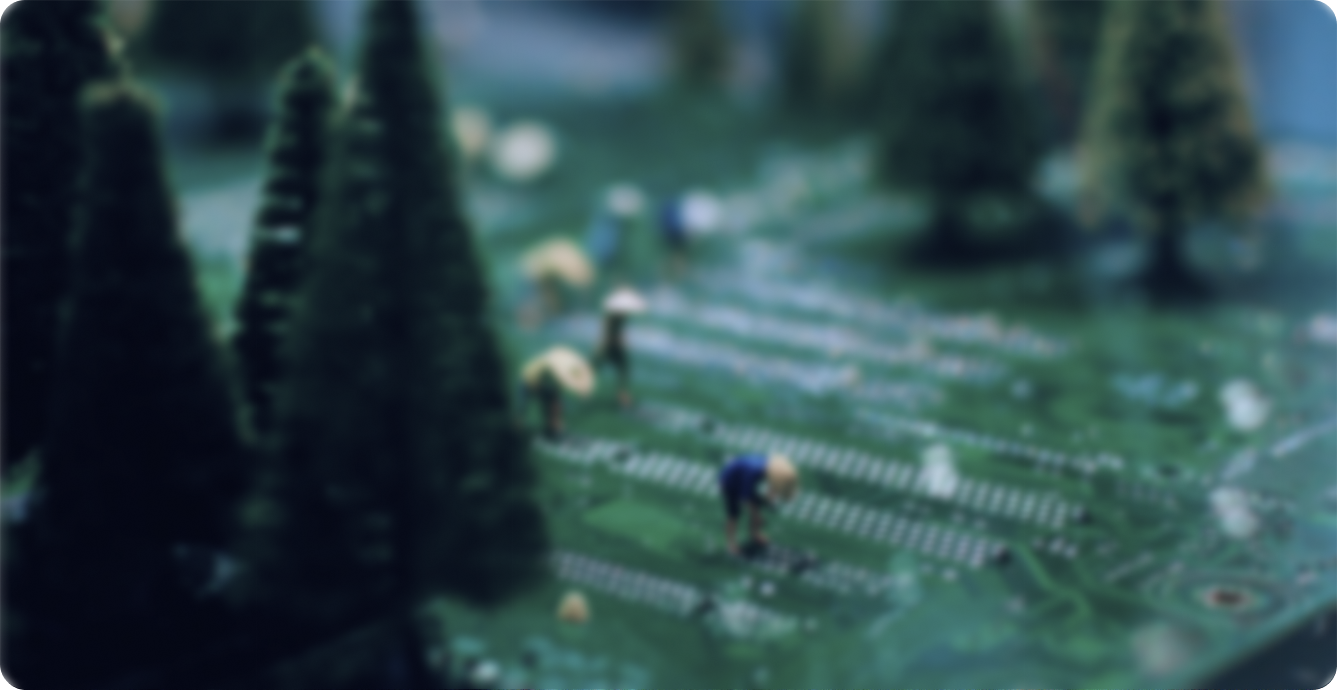
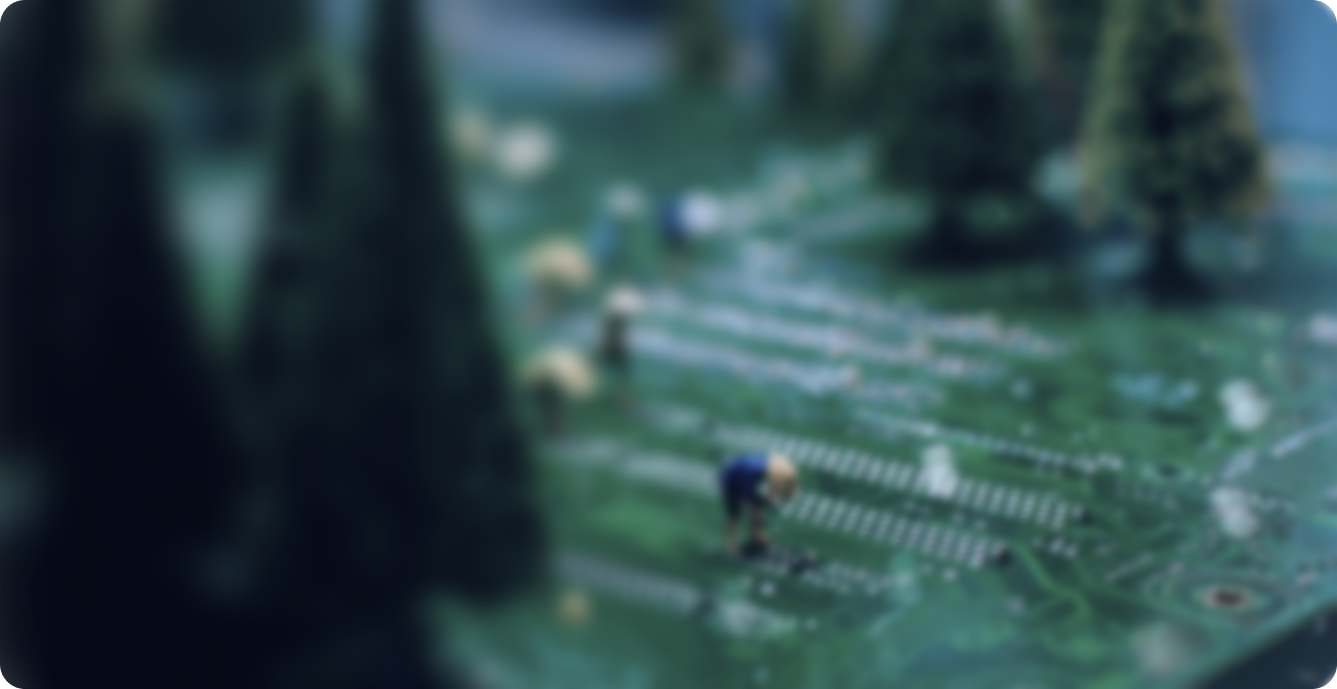
refactor(landing): faz alterações
Fiz algumas alterações para melhorar a landingpage depois da conversas com outros membros da equipe.

diff --git a/frontend/src/App.css b/frontend/src/App.css
@@ -1124,8 +1124,8 @@
 .contact-icons a {
     display: grid;
     place-items: center;
-    width: 3.5rem;
-    height: 3.5rem;
+    width: 2.75rem;
+    height: 2.75rem;
     border-radius: 50%;
     background: var(--text);
     color: var(--background);
@@ -1133,8 +1133,8 @@
 }
 
 .contact-icons a svg {
-    width: 1.5rem;
-    height: 1.5rem;
+    width: 1.25rem;
+    height: 1.25rem;
 }
 
 .contact-icons a:hover {
@@ -1293,8 +1293,21 @@
     padding: clamp(2rem, 4vw, 3rem);
     overflow: hidden;
     border-radius: 1.875rem;
-    background: var(--text);
-    color: var(--background);
+}
+
+[data-theme="light"] .overview-strip {
+    background: var(--background);
+    color: var(--text);
+}
+
+[data-theme="dark"] .overview-strip {
+    background: var(--shadow);
+    color: var(--text);
+}
+
+[data-theme="dark"][data-palette="blue"]  .overview-strip {
+    background: var(--background);
+    color: var(--text);
 }
 
 .strip-water {
@@ -1303,7 +1316,7 @@
     bottom: 0;
     left: 0;
     height: 70%;
-    background: color-mix(in srgb, var(--theme-secondary) 35%, transparent);
+    background: color-mix(in srgb, var(--theme-secondary) 75%, transparent);
 }
 
 .strip-water::before {

diff --git a/frontend/src/App.tsx b/frontend/src/App.tsx
@@ -202,7 +202,9 @@ function useScrollProgress(
       if (el) {
         const rect = el.getBoundingClientRect();
         const p = (window.innerHeight * 0.9 - rect.top) / rect.height;
-        el.style.setProperty("--line", String(Math.min(1, Math.max(0, p))));
+        const current = Number(el.style.getPropertyValue("--line")) || 0;
+        const progress = Math.min(1, Math.max(current, p));
+        el.style.setProperty("--line", String(progress));
       }
     };
 
